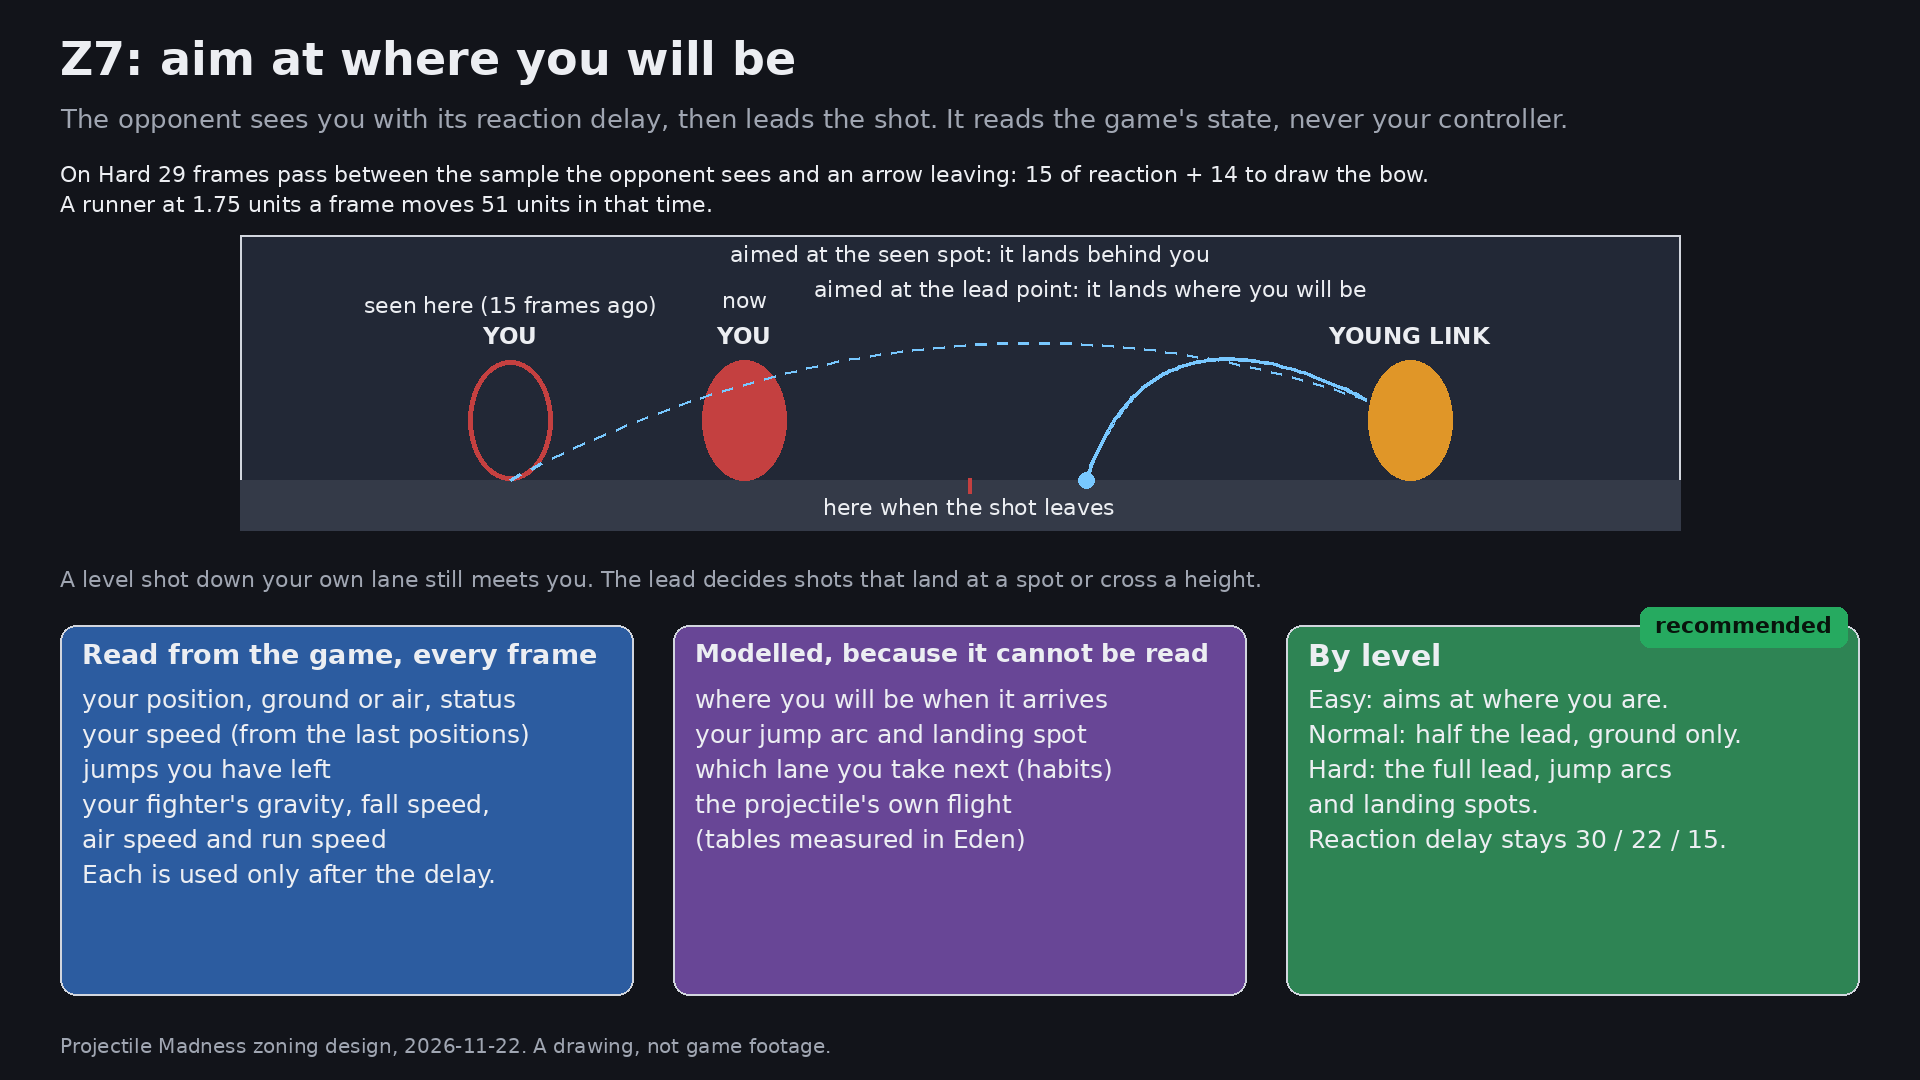
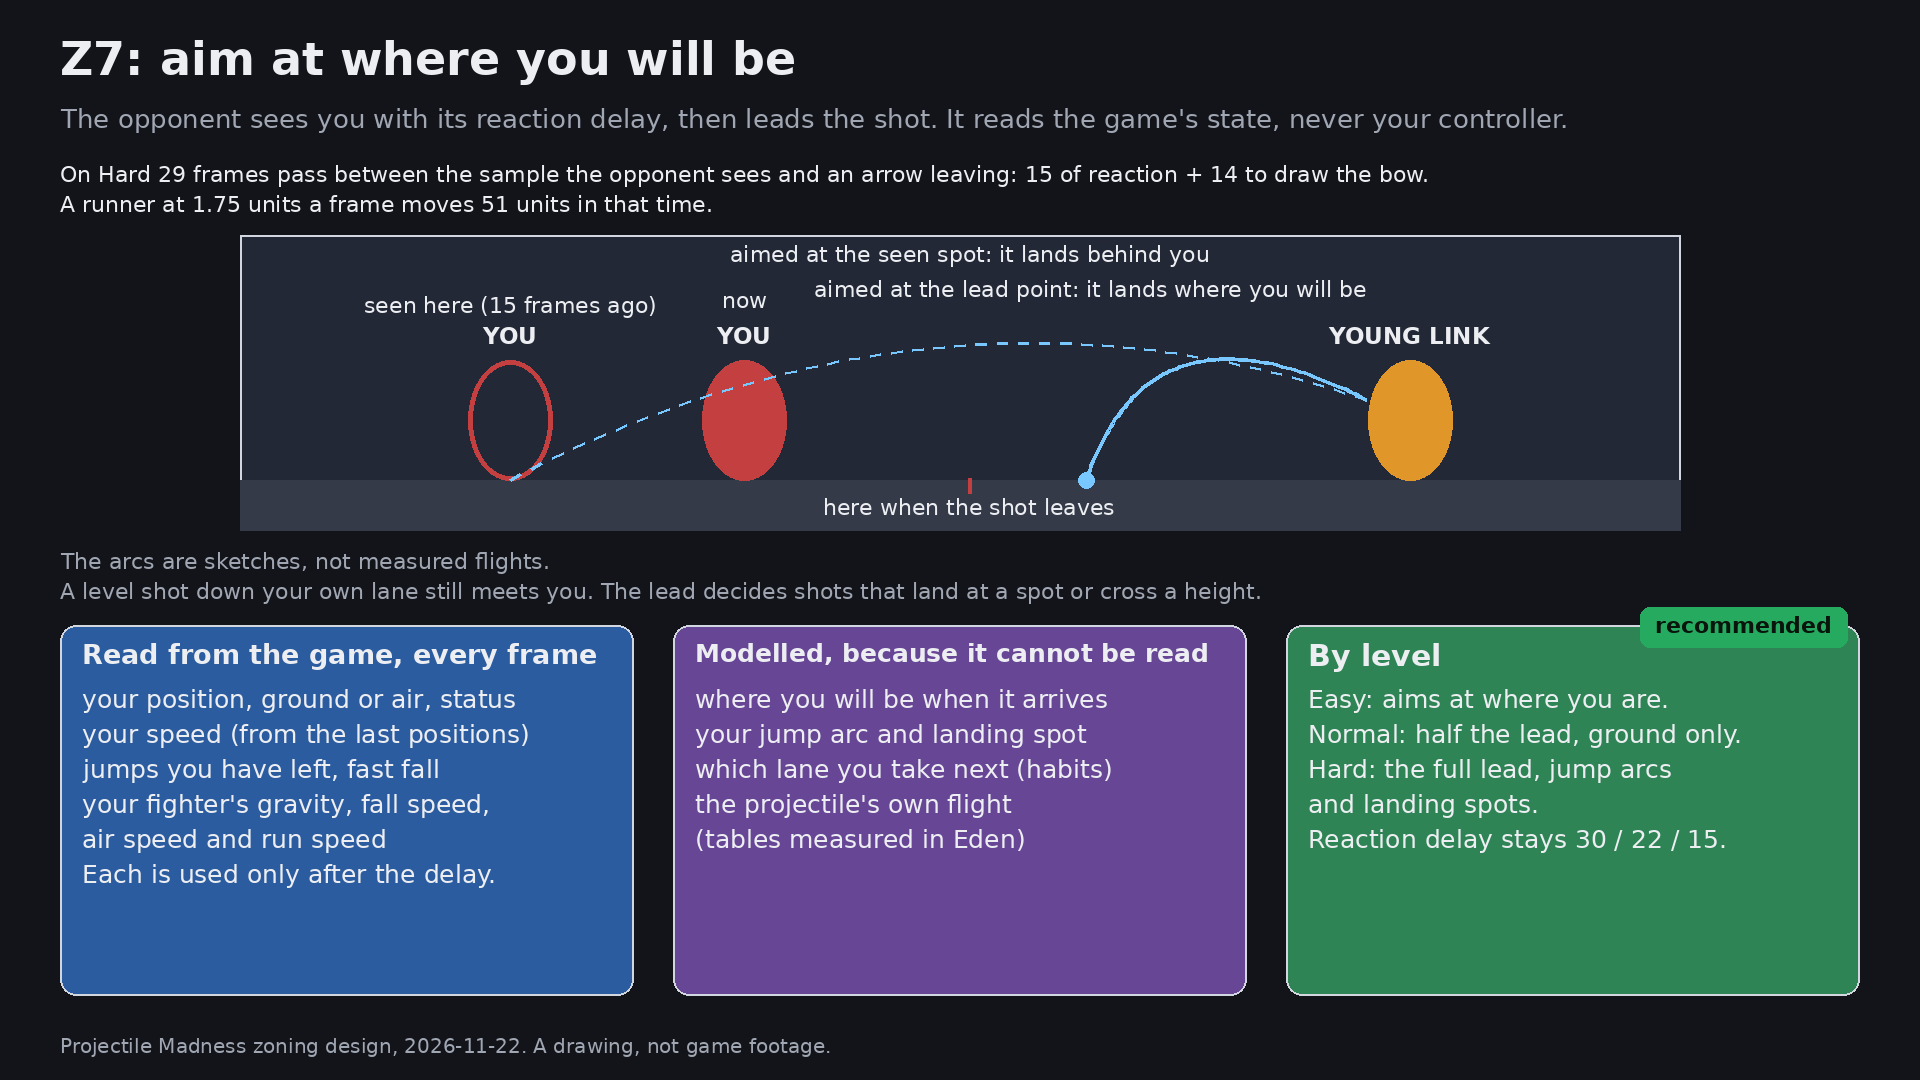
Review: Projectile Madness zoning page updated to c46cb88c
Z1 adds the unknown-main-floor case; Z7 labels its arcs as sketches.

Changed region(s): [[0.0312, 0.5194, 0.6562, 0.55], [0.1875, 0.7028, 0.2188, 0.7333]]

diff --git a/docs/review/pm-zoning.md b/docs/review/pm-zoning.md
@@ -1,6 +1,6 @@
 # Projectile Madness zoning design (rc.16) for the operator
 
-Copied from rc16/projectile-madness 8ed8db26 docs/DECISIONS.md (review PASS 15:54:52Z with caption qualifications: the Z7 arcs are illustrative lobs, not measured impacts; Z1 keeps the unknown-main-floor fallback). The pictures are renderings, not game footage.
+Copied from rc16/projectile-madness c46cb88c docs/DECISIONS.md (review PASS 15:58:38Z). The pictures are renderings, not game footage.
 
 ## rc.16 Projectile Madness zoning (2026-11-22): pending operator
 
@@ -21,7 +21,7 @@ until an Eden pass confirms it on the exact build, and no projectile's flight ha
 
 | # | Question for the operator | Recommendation |
 | --- | --- | --- |
-| Z1 | Where do both fighters start? | **A:** placed far apart at every Start, restart and KO: Simon and Richter 120 units, Samus 110, Young Link 100, Min Min 90, capped by the floor. Nobody is placed when less than 64 units fit, or in a waiting room before its two-console check |
+| Z1 | Where do both fighters start? | **A:** placed far apart at every Start, restart and KO: Simon and Richter 120 units, Samus 110, Young Link 100, Min Min 90, capped by the floor. Nobody is placed when less than 64 units fit, when the main floor cannot be established, or in a waiting room before its two-console check |
 | Z2 | Strings instead of single shots? | **Yes:** 2 to 4 projectiles back to back, each closing a lane the others leave open, then a short reset |
 | Z3 | Young Link's string | Boomerang, bomb and arrow in any of the six orders. Holding the bomb while the others are thrown is proposed and not shown yet |
 | Z4 | Simon's and Richter's string | Cross, axe and holy water in any order; one table for both |
@@ -47,8 +47,8 @@ the countdown that already holds Player 1.
   Battlefield, Small Battlefield, Hollow Bastion, Kalos, Lylat, Northern Cave) allows 120; Town and City 125; Pokémon
   Stadium 2 147; Smashville 99. Other stages are read at Start.
 - **When nobody is placed (part of A):** the attempt starts as today when the cap is under 64 units (a floor shorter
-  than 104), when the main floor cannot be established, and in a waiting room until the two-console check has passed
-  on the build that places.
+  than 104), when the main floor cannot be established, in a waiting room until the two-console check has passed on
+  the build that places, and on a console where the placement calls did not pass their guards.
 - **B, a Start distance row** (Far / As you stand) is one more setting to explain. **C** keeps today.
 - **Cost:** placing is new for this game (the build wrote only the pad). The distances are starting values: Min Min's
   waits for her reach.
@@ -158,8 +158,9 @@ Min Min becomes the fifth opponent. A is her left ARM (always Dragon) and B her 
 - **Read from the game, every frame:** Player 1's position, ground or air, status, speed (from the last positions),
   jumps left and fast fall, and the fighter's own gravity, fall speed, air speed and run speed. Each read uses a call
   the plugin already makes for another feature (Guard the Edge reads the same physics). Projectile Madness's own
-  admission list has to grow to include them. The names are confirmed in the stock files; the values and the jump
-  formula are not validated.
+  admission list has to grow to include them; where they did not pass their guards, the opponent aims at the seen spot
+  and the game still runs. The names are confirmed in the stock files; the values and the jump formula are not
+  validated.
 - **Modelled, because the game cannot tell:** where Player 1 will be when the shot arrives, the jump arc and landing
   spot, which lane Player 1 takes next (the habit table of today), and the projectile's own flight (tables measured in
   Eden).
@@ -170,7 +171,7 @@ Min Min becomes the fifth opponent. A is her left ARM (always Dragon) and B her 
   of reaction, 14 to draw). A runner at 1.75 units a frame moves 51 units in that time. A level shot down Player 1's
   own lane still meets Player 1. The lead decides the shots that land at a spot or cross a height: a thrown bomb, the
   axe, the holy water's timing, an angled boomerang, any shot at a jumper. How much it changes each one depends on
-  flights that are not measured yet.
+  flights that are not measured yet. The arcs in the picture are sketches, not measured flights.
 - **By level:** Easy aims at where Player 1 is; Normal leads ground movement by half; Hard leads fully, with jump arcs
   and landing spots.
 
